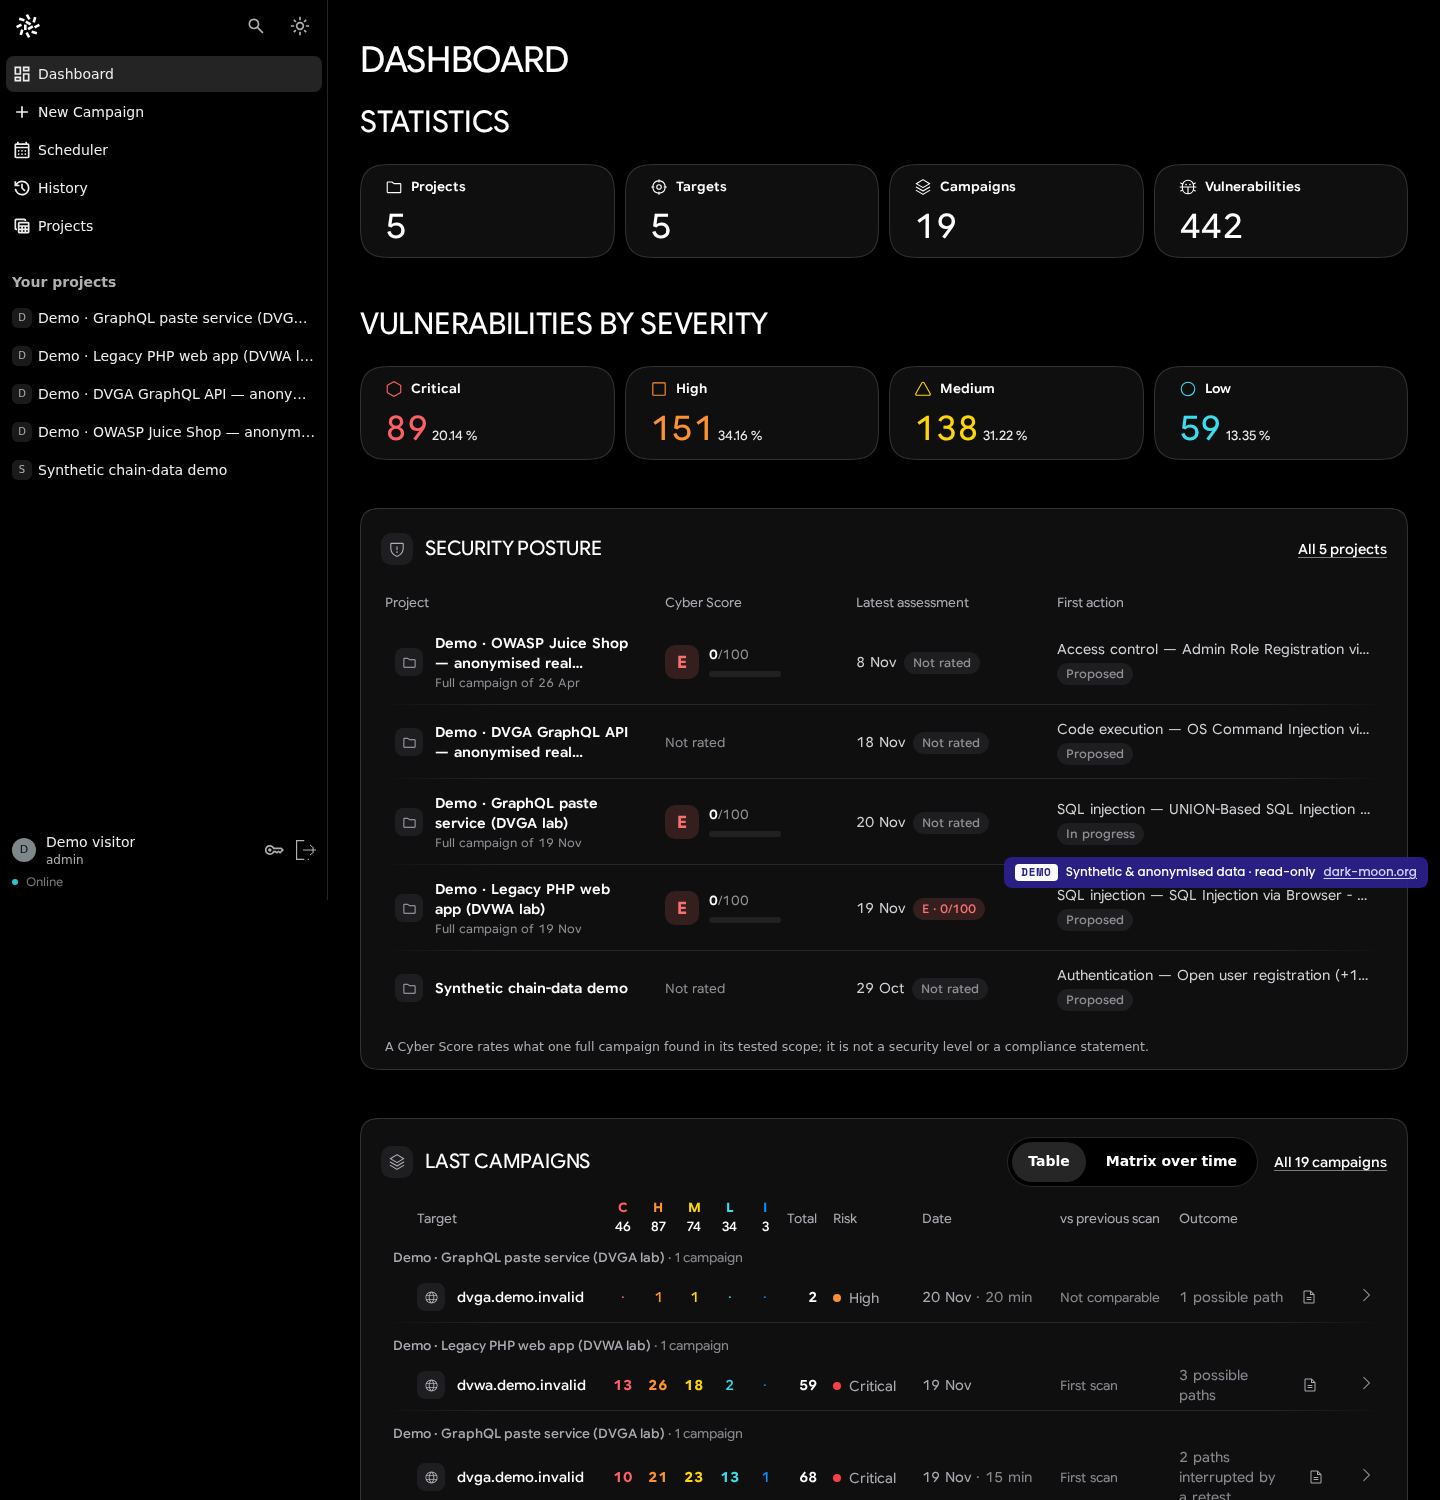
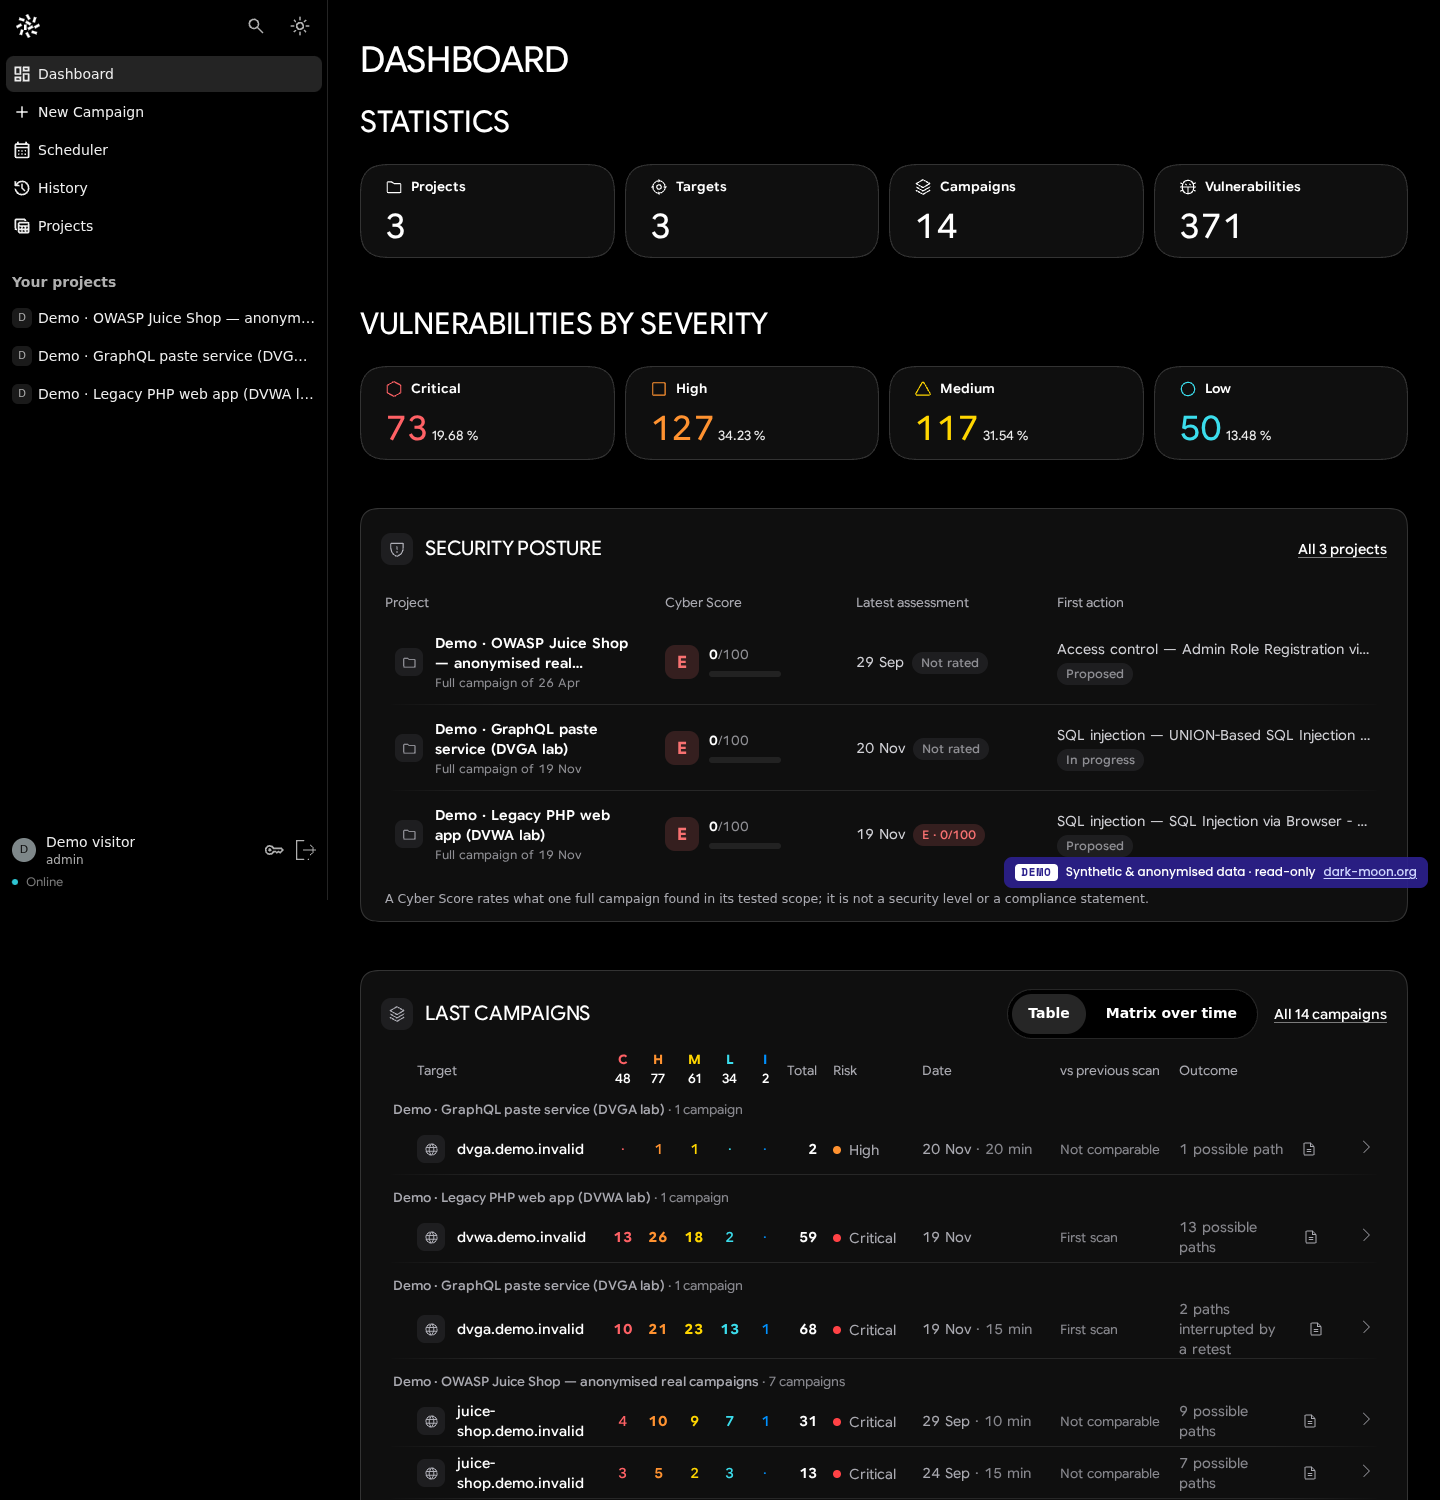
docs(readme): Pro dashboard capture with the current 3 demo projects (#73) [skip ci]
Dashboard capture retaken on the current demo (3 projects, 3 targets, 14 campaigns, 371 vulnerabilities); alt updated.

diff --git a/README.md b/README.md
@@ -198,7 +198,7 @@ The screenshots below are the **paid Darkmoon Pro** web dashboard. They are **no
 </tr>
 <tr>
 <td width="50%" valign="top">
-<img src="docs/pics/pro/dashboard.png" alt="Darkmoon Pro dashboard: 5 projects, 5 targets, 19 campaigns and 442 vulnerabilities, vulnerabilities by severity with percentages, a security posture table with Cyber Score grade, latest assessment and first action per project (OWASP Juice Shop first), and the start of the Last campaigns table with per-severity counts, risk, date and comparison with the previous scan" />
+<img src="docs/pics/pro/dashboard.png" alt="Darkmoon Pro dashboard: 3 projects, 3 targets, 14 campaigns and 371 vulnerabilities, vulnerabilities by severity with percentages, a security posture table with Cyber Score grade, latest assessment and first action per project (OWASP Juice Shop first), and the start of the Last campaigns table with per-severity counts, risk, date and comparison with the previous scan" />
 <p align="center"><b>Pro: live web dashboard with campaign history.</b> Projects, targets, campaigns and vulnerabilities at a glance, findings split by severity, a security posture table giving each project its Cyber Score grade, latest assessment and first treatment action, and every campaign with its counts and a comparison with the previous scan.</p>
 </td>
 <td width="50%" valign="top">
